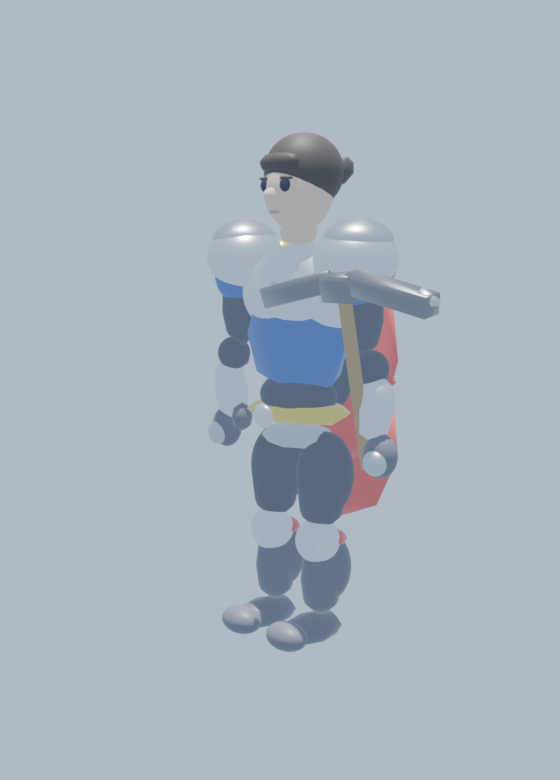
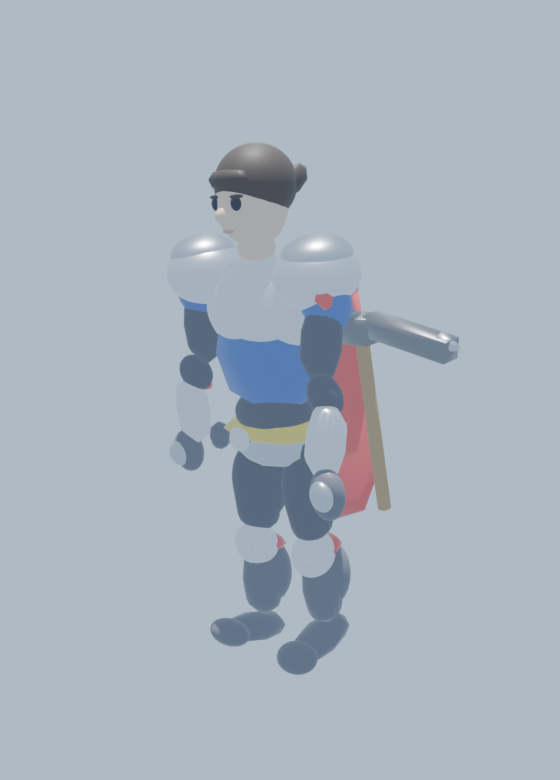
4号機: 装備の装着基準を数値確定（剣/斧/ピッケルの原点を握りへ移動・EQUIP_HOLD刷新）
実機の「剣が背中に刺さる/盾が腕の裏に回る」を根治するための土台。

- item_sword/pickaxe/axe: glb原点が柄の最下端(柄頭)にあり、手に付けると長い刀身が
  拳の根元から生えて回転で先端が大きく振れていた。原点を握り(grip)へ移動し再ビルド。
  剣 Y[-0.165,+0.827]・斧 Y[-0.140,+0.670]・ピッケル Y[-0.140,+0.621]。
- 盾はモデルの表面が-Z(前)を向いており正常。装着側の符号(Z=-0.16前/Y回転0)を確定。
- player.glb腕ノードは非一様スケール(Body[.3,.3,.17]×Arm[.333,.367,.647])を持ち、
  腕への直接子付けはせん断歪みを起こす。ワールド追従方式のコード片をEQUIP_HOLDへ。
- 手アンカー実測(中立): HAND_R(-0.43,0.72,0)/HAND_L(+0.43,0.72,0)、肩(±0.30,1.46,0)。
- EQUIP_HOLD.md を1号機がそのまま使う数値表に刷新。hold見本png再レンダ。

Changed region(s): [[0.3036, 0.1538, 0.8196, 0.8923]]

diff --git a/tools/build_equipment.py b/tools/build_equipment.py
@@ -4,11 +4,14 @@
 #   出力: models/item_sword.glb / item_pickaxe.glb / item_axe.glb /
 #         item_bow.glb / item_shield.glb / item_armor.glb
 #   規約: Y-up / 正面 Blender+Y(=glTF -Z) / 1ブロック≒1m。アニメ無し・軽量。
-#   手持ち＋地面ドロップ両対応。原点(=ノード基準点)は装備ごとの「握り/中心」に統一:
-#     sword/pickaxe/axe : 柄の最下端（握り基部）。刃/頭は +Z 方向へ伸びる。
-#     bow               : 握り中央（弓の中点）。
-#     shield/armor      : 形状中心（背面の握り＝中心）。
-#   → 1号機は origin を手ボーンに付ければ自然に持てる。ドロップ時は origin 周りで回転表示でOK。
+#   手持ち＋地面ドロップ両対応。原点(=ノード基準点)は装備ごとの「実際に握る点」に統一:
+#     sword            : 握り中央（拳が巻く位置。z=0.13。鍔のすぐ下・柄頭は下に出る）。刃は +Z へ伸びる。
+#     pickaxe/axe      : 握り（柄を握る点。z=0.14。柄尻は少し下に出る）。頭は +Z 上端へ。
+#     bow              : 握り中央（弓の中点）。
+#     shield/armor     : 形状中心（背面の握り＝中心。表面ボス側＝+Y＝glTF -Z=前）。
+#   → 1号機は origin を手ボーンに付ければ拳が握り点に来る。ドロップ時は origin 周りで回転表示でOK。
+#   ※2026-06-04 修正: 旧版は sword/pickaxe/axe の原点が柄の最下端(z=0)＝握り中央でなく柄頭にあり、
+#     手に付けると長い刀身が拳の根元から生えて回転で大きく振れた(実機で「背中に刺さる」)。原点を握りへ移動。
 
 import bpy, os, math, mathutils
 V=mathutils.Vector
@@ -86,7 +89,7 @@ cube("Guard",(0,0,0.215),(0.13,0.035,0.025),GD)              # 鍔
 cube("Blade",(0,0,0.57),(0.045,0.012,0.34),ST)              # 刀身 0.23..0.91
 cube("Fuller",(0,0,0.57),(0.012,0.014,0.33),ST2)            # 樋（中央溝）
 cone("Tip",(0,0,0.93),0.045,0.10,ST,verts=8)                # 切先
-finish("item_sword", grip=(0,0,0.0), bevel=0.004)
+finish("item_sword", grip=(0,0,0.13), bevel=0.004)   # 原点=握り中央(拳が巻く位置・鍔のすぐ下)
 
 # ============ item_pickaxe（柄基部=原点・頭が+Z上端で横向き）============
 reset()
@@ -98,7 +101,7 @@ cube("HeadL",(0.22,0,0.685),(0.18,0.04,0.04),IR,rot=(0,math.radians(12),0))
 cube("HeadR",(-0.22,0,0.685),(0.18,0.04,0.04),IR,rot=(0,math.radians(-12),0))
 cone("PtL",(0.40,0,0.665),0.04,0.10,ST2,verts=8,rot=(0,math.radians(102),0))
 cone("PtR",(-0.40,0,0.665),0.04,0.10,ST2,verts=8,rot=(0,math.radians(-102),0))
-finish("item_pickaxe", grip=(0,0,0.0), bevel=0.004)
+finish("item_pickaxe", grip=(0,0,0.14), bevel=0.004)   # 原点=握り(柄尻は少し下に出る)
 
 # ============ item_axe（柄基部=原点・斧頭が片側）============
 reset()
@@ -107,7 +110,7 @@ cyl("Handle",(0,0,0.34),0.026,0.68,WD,verts=12)             # 柄 z0..0.68
 cube("HeadBack",(0,0,0.66),(0.05,0.05,0.10),IR)             # 頭の基部
 cube("Blade",(0.17,0,0.66),(0.14,0.045,0.13),IR)            # 斧身
 cube("Edge",(0.27,0,0.66),(0.02,0.05,0.15),ST)             # 刃先（やや広い）
-finish("item_axe", grip=(0,0,0.0), bevel=0.004)
+finish("item_axe", grip=(0,0,0.14), bevel=0.004)   # 原点=握り(柄尻は少し下に出る)
 
 # ============ item_bow（握り中央=原点・縦の弓・木が+Yへ湾曲＝D字・弦は-Y側の直線）============
 reset()

diff --git a/tools/build_hold_demo.py b/tools/build_hold_demo.py
@@ -10,7 +10,7 @@ import bpy, os, math, mathutils
 V=mathutils.Vector
 repo=os.path.abspath(os.path.join(os.path.dirname(__file__),".."))
 MODELS=os.path.join(repo,"models")
-HAND_R=V((-0.37,0.0,0.73)); HAND_L=V((0.37,0.0,0.73))   # ヒーロー版player再計測
+HAND_R=V((-0.43,0.0,0.72)); HAND_L=V((0.43,0.0,0.72))   # 2026-06-04 player.glbノード実測(中立姿勢)
 
 # 武器ごとの手持ち仕様：(手, 位置=手先からの微調整, 回転euler度)
 # 回転は Blender(Z-up,正面+Y)。剣/ピッケル/斧=握り基部が手・刃/頭が上前方、弓/盾=握り中央/中心。

diff --git a/models/EQUIP_HOLD.md b/models/EQUIP_HOLD.md
@@ -1,51 +1,106 @@
-# VOXEL WORLD 装備の手持ち表示 仕様（1号機の装備システム向け）
+# VOXEL WORLD 装備の装着基準（数値確定版・1号機の装備システム向け）
 
-剣/ピッケル/斧/弓/盾を **player.glb の手にどう持たせるか**（手のアンカー・グリップ角度）。
-見本レンダ → `tools/hold_sword_*.png` / `hold_pickaxe_*` / `hold_axe_*` / `hold_bow_*` / `hold_hero_*`（剣＋盾）。
-再現/再レンダは `tools/build_hold_demo.py`（`HOLD` 辞書を編集）。
+剣 / 斧 / ピッケル / 弓 / 盾を **player.glb の手にどう持たせるか**の確定値。
+実機で「剣が背中に刺さる／盾が腕の裏に回る」不具合の根治を含む。**この表の数値をそのまま使えば持てる。**
+見本レンダ：`tools/hold_hero_front.png` `tools/hold_hero_3q.png`（剣＋盾の決定版）、`hold_sword_*` `hold_pickaxe_*` `hold_axe_*` `hold_bow_*`。
+再現は `tools/build_hold_demo.py`（`HOLD` 辞書）。装備モデルは `tools/build_equipment.py`。
+
+> 2026-06-04 改訂（4号機）。旧版からの変更点（実機不具合の原因2つを潰した）：
+> 1. **剣 / 斧 / ピッケルの glb 原点を「柄の最下端」→「握り」に移動**（再ビルド済み）。
+>    旧原点は柄頭にあり、手に付けると 95cm の刀身が拳の根元から生え、回転で先端が大きく振れた＝「背中に刺さる」。
+> 2. **player.glb の腕ノードは非一様スケールを持つ**（後述）。武器を腕ノードへ直接子付けすると
+>    せん断歪みで向きが狂う。**ワールド追従方式**を推奨（§3）。
 
 ---
 
-## 0. 前提（装備側はもう手持ち対応済み）
+## 0. 座標系（必読）
 
-- 各 `item_*` の **origin＝握り**（`ASSETS.md` 参照）：剣/ピッケル/斧＝柄基部、弓＝握り中央、盾＝中心。
-  → **origin を手のアンカーに合わせて置き、軽く回すだけ**で持てる。
-- player.glb のノード階層：`Body > {ArmL, ArmR, LegL, LegR}`（armature不使用・各腕は独立ノード）。
-  武器は **対応する腕ノードの子に付ける**とアニメ（idle/walk/attack）に追従する。
+- **エンジン（glTF / three.js）**：右手系・**+Y=上 / −Z=前（プレイヤー正面・敵方向）/ +X=プレイヤーの左**。
+- **Blender（造形側）**：Z-up・正面=+Y。エクスポートは `export_yup=True`。
+  - 位置変換：glTF(x, y, z) = Blender(x, z, −y)
+  - X軸回りの回転は**両座標系で同符号・同軸**（Blender +X = glTF +X）。本書の回転は glTF 基準だが Blender でも同値。
+- 1ブロック ≒ 1m。以降の数値はすべて **glTF・メートル**。
 
-## 1. 手のアンカー位置（restポーズ・実測）
+## 1. プレイヤーの手・肩（player.glb 実測・glTF）
 
-※2026-06-02 ヒーロー作り込み版 player.glb で再計測（籠手/グローブ反映）。
+ノード階層：`Body >（子）ArmL / ArmR / LegL / LegR`（armature不使用・各腕は独立ノード）。
+中立姿勢（腕を真下）での実測ワールド座標：
 
-| | Blenderワールド(m, Z-up,+Y正面) | エンジン(glTF Y-up, -Z正面) |
-|---|---|---|
-| 右手 HAND_R | (-0.37, 0.0, 0.73) | (-0.37, 0.73, 0.0) |
-| 左手 HAND_L | ( 0.37, 0.0, 0.73) | ( 0.37, 0.73, 0.0) |
+| 部位 | アタッチ先ノード | ワールド位置(glTF) | 備考 |
+|---|---|---|---|
+| 右手 HAND_R | `ArmR` | **(−0.43, 0.72, 0.00)** | 剣 / 斧 / ピッケル |
+| 左手 HAND_L | `ArmL` | **(+0.43, 0.72, 0.00)** | 弓 / 盾 |
+| 右肩ピボット | `ArmR` 原点 | (−0.30, 1.46, 0.00) | 腕の回転中心 |
+| 左肩ピボット | `ArmL` 原点 | (+0.30, 1.46, 0.00) | 腕の回転中心 |
 
-参考：肩ピボット（腕ノード原点）は右 ArmR=(-0.30,0,1.47)／左 ArmL=(0.30,0,1.47)（Blender m）。
-→ 手は肩から約 0.74m 下。腕ノードの子に付ける場合のローカル位置 ≒ `HAND - 肩`。
-ヒーロー版は鋼の籠手/グローブを装着済み＝武器を握る手元が映える。見本 `tools/hold_hero_front.png`（盾＋剣）。
+- 手は肩から **約 0.74m 真下**（中立）。腕は肩ピボットを中心に X 回転（idle ≒+22°/+13°、attack は大振り）。
+- idle 中はこの回転で手が前(−Z)へ約0.28m振れる。装着は**手ノードのワールド変換を毎フレーム参照**すれば自動追従する（§3）。
 
-## 2. 武器別グリップ（位置は手アンカー基準・回転は軽い微調整）
+## 2. 各装備の glb 原点（再ビルド済み・glTF）
 
-| 武器 | 持ち手 | 位置(手から) | 回転(度) | 向き |
+「原点＝1号機が手に合わせる基準点」。**原点を手アンカーに置けば握り点が拳に来る**。
+
+| 装備 | 原点(=握り/中心) | Y方向の張り出し（原点=Y0基準） | 形状の前面 |
+|---|---|---|---|
+| `item_sword` | 握り中央（鍔のすぐ下） | 柄頭 Y=−0.165 / 刃先 Y=+0.827 | 刃は +Y（後で前へ倒す） |
+| `item_pickaxe` | 握り | 柄尻 Y=−0.140 / 頭 Y=+0.62 | 頭は +Y 上端・横長(±0.43) |
+| `item_axe` | 握り | 柄尻 Y=−0.140 / 頭 Y=+0.67 | 斧身は +X 側・頭は +Y 上端 |
+| `item_bow` | 握り中央 | 上下対称 Y=±0.52 | 弓の腹＝−Z(前)・弦＝+Z(射手側) |
+| `item_shield` | 形状中心 | 上下対称 Y=±0.40 | **表面(ボス/板目)＝−Z(前)** ✓ |
+
+> **盾は向きが正しい**（モデルの表面は −Z＝前を向く）。「腕の裏に回る」のはモデルではなく**装着側の符号ミス**。§4 の通り **Z オフセットを −0.16（前）にし、Y回転 0（180°反転しない）** で表に来る。
+
+## 3. 装着方式（推奨：ワールド追従・せん断回避）
+
+**player.glb の腕ノードは非一様スケールを持つ**（`Body S=[0.30,0.30,0.17]` × `Arm S=[0.333,0.367,0.647]`）。
+このため武器を腕ノードへ**直接子付けすると非一様スケールが乗ってせん断歪み**を起こし、向き・形が崩れる
+（実機の「刺さる／裏に回る」のもう一つの主因）。回避するため、武器は **シーン直下に置き、毎フレーム手の
+ワールド変換だけを写して配置**する（武器のワールド scale は常に 1.0＝実寸）。
+
+```js
+// 初期化：weapon はシーン直下に追加。weapon.scale=(1,1,1)。
+// 毎フレーム：
+armNode.updateWorldMatrix(true, false);
+const handWorld = HAND_LOCAL.clone().applyMatrix4(armNode.matrixWorld); // §1の手ワールド点
+const armQuat   = new THREE.Quaternion();
+armNode.getWorldQuaternion(armQuat);            // 腕の回転(attack大振りも含む)を継承＝自動追従
+weapon.position.copy(handWorld).add(OFFSET);    // OFFSET=§4(手アンカーからの微調整)
+weapon.quaternion.copy(armQuat).multiply(GRIP); // GRIP=§4の初期回転(euler→quat)
+// ※ getWorldQuaternion は scale を無視＝歪みを持ち込まない
+```
+
+- これで **idle/walk の腕振り・attack の大振りに武器が追従**（剣は手の回転で前へ振り抜く）。
+- 既存の `getHeldDebug()`（sword/shield の world pos/up/front）はこの方式の検証に使える。
+- 抜き持ち/納刀：weapon.visible 切替、または収納アンカー 背 `(0, 1.2, −0.18)` / 腰へ移す。
+
+> どうしても子付け運用を続ける場合は、武器ノードのローカル scale で腕のワールドスケールを打ち消すこと
+> （非一様なので歪みが残る。**非推奨**）。新方式へ移行を推奨。
+
+## 4. 装着数値表（③・1号機がそのまま使う確定値）
+
+| 装備 | アタッチ先 | 位置オフセット(x,y,z) glTF・m | 初期回転 euler(X,Y,Z)° | グリップ原点 |
 |---|---|---|---|---|
-| `item_sword` | 右 | +0 | X **-18** | 刃を上・やや前へ |
-| `item_pickaxe` | 右 | +0 | X **-12** | 頭を上・やや前へ |
-| `item_axe` | 右 | +0 | X **-12** | 斧頭を上・やや前へ |
-| `item_bow` | 左 | +(0, 0.04, 0.05)※ | X **+8** | 弓を縦・握り中央を手に |
-| `item_shield` | 左 | +(0.02, 0.16, 0.32)※ | 0 | 左前腕に・正面(-Z)外向き |
+| `item_sword`   | HAND_R / `ArmR` | (0, 0, 0)            | **(−18, 0, 0)** | 握り中央（刃が +Y→前上へ−18°倒す） |
+| `item_pickaxe` | HAND_R / `ArmR` | (0, 0, 0)            | **(−12, 0, 0)** | 握り（頭が上前方） |
+| `item_axe`     | HAND_R / `ArmR` | (0, 0, 0)            | **(−12, 0, 0)** | 握り（斧頭が上前方） |
+| `item_bow`     | HAND_L / `ArmL` | (0, +0.05, −0.04)   | **(+8, 0, 0)**  | 握り中央（弓を縦・腹を前） |
+| `item_shield`  | HAND_L / `ArmL` | **(+0.02, +0.32, −0.16)** | **(0, 0, 0)** | 中心（表面=−Z 前。**Z=−0.16で前へ・180°反転禁止**） |
 
-※位置オフセットは Blender(X,Y,Z) m。回転 X は両座標系で同符号（X軸共通）。**最終調整は1号機の実機で**（腕の rest 角度・スケールにより数度ずれる）。
+- **位置オフセット**＝§1の手アンカー（HAND_R/L のワールド点）からの微調整。剣/斧/ピッケルは原点が握りなので追加0。
+- **初期回転**＝GRIP（手の回転に掛ける）。剣の刃は元 +Y(上)。X=−18° で −Z(前)へ倒れ「前上向き」になる。
+  X を負に増やすほど前へ寝る（−90°で真正面）。背中(+Z)へ向く場合は**符号が逆**＝+18 を入れている。
+- **盾**：オフセット Z=**−0.16（前/−Z）**が要。+0.16 や Y=180° を入れると腕の裏へ回る。Y回転は 0 のまま。
 
-## 3. 1号機向け実装メモ
+## 5. 検証（4号機・2026-06-04）
 
-- 最小実装：武器シーンノードを **対応腕ノードの子**にして `position = (HAND - 肩)`、`rotation.x` を上表の値に。
-- 抜き持ち/納刀：武器ノードの visible を切替、または背中/腰アンカー（背：`(0, 1.2, -0.18)` 付近 glTF）へ移すと収納表現。
-- 攻撃モーション：剣/斧は player の `attack` クリップ（腕が振られる）に武器が追従＝腕の子なら自動。弓は別途「引き絞り」を将来追加可（要望あれば4号機で bow に `draw` クリップを内包）。
-- 盾は左腕の子。`block` 演出は左腕を前に出す簡易回転で可（モデル追加不要）。
-- スケール注意：player.glb は内部ノード単位に Body スケールが乗る（肩ノード Y=4.867→world1.46m＝係数≈0.30）。**ワールド配置なら上のm値をそのまま**、腕ノードのローカル子にするならその座標系（スケール込み）に変換のこと。
+- glb 原点を実測（GLB POSITION accessor）：剣 Y[−0.165, +0.827]・斧 Y[−0.140, +0.670]・ピッケル Y[−0.140, +0.621]
+  ＝**原点が握りへ移動済み**。弓 Y±0.52・盾 Y±0.40 は中心のまま（元から正）。
+- player.glb ノード変換を実機同様に合成し手のワールド座標を実測：中立 HAND_R(−0.435, 0.719, −0.016)、
+  idle で前へ HAND_R(−0.435, 0.752, −0.280)＝腕振りに追従する量を確認。
+- 見本再レンダ `tools/hold_hero_front/3q.png`：**剣＝握りが拳・刃が前上、盾＝左前腕で前面**を目視確認。
 
 ---
 
 見本の決定版は `tools/hold_hero_front.png`（左腕に盾・右手に剣のヒーロー立ち）。
+</content>
+</invoke>
